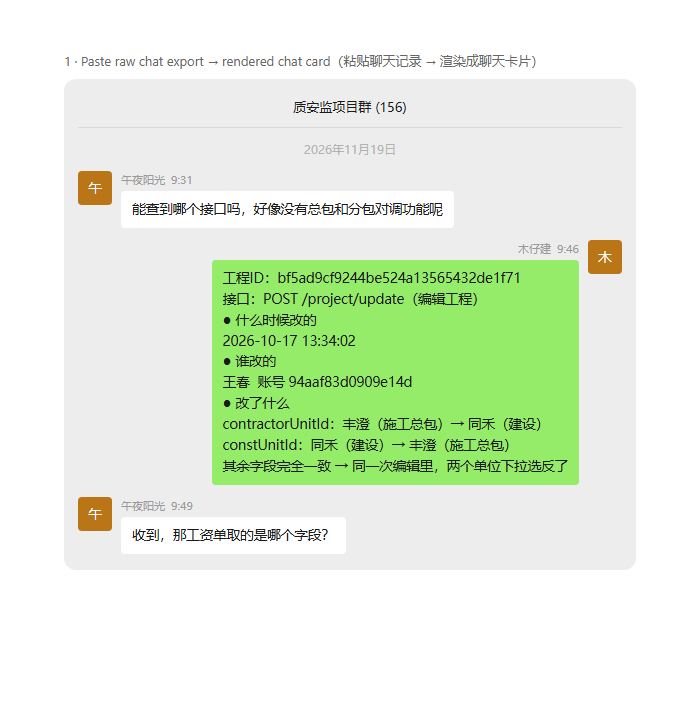
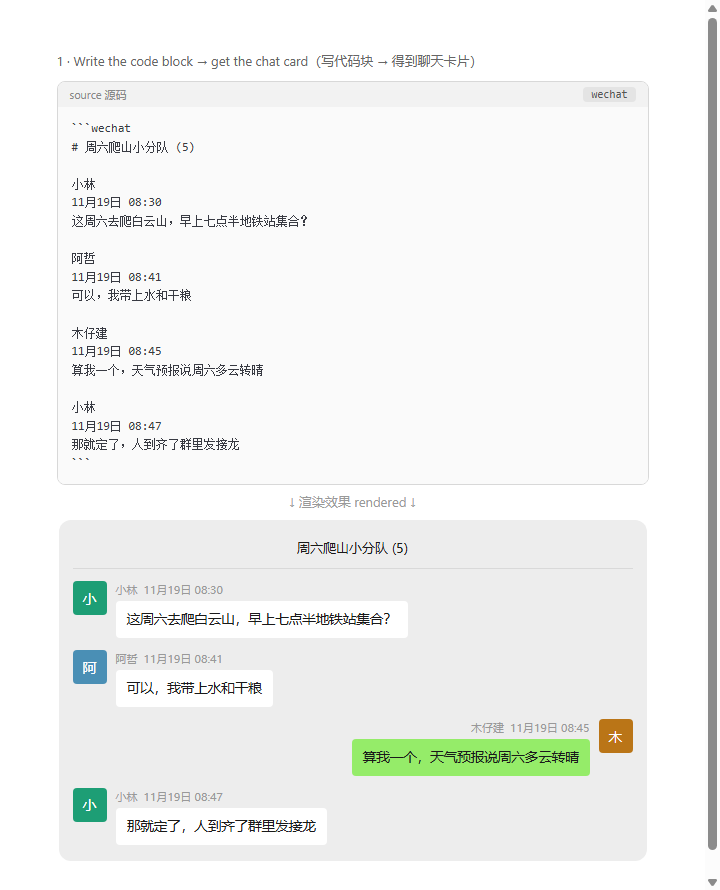
docs: replace screenshots with fictional data, show source code block above each render

diff --git a/screenshots/preview.html b/screenshots/preview.html
@@ -18,37 +18,66 @@
   .shot {
     background: #FFFFFF;
     padding: 20px 24px;
-    width: 620px;
+    width: 640px;
     box-sizing: border-box;
   }
   .shot-label {
     font-size: 13px;
     color: #666;
-    margin-bottom: 10px;
+    margin-bottom: 12px;
   }
-  /* 让插件卡片在截图里更醒目一点 */
-  .shot .wcr-chat { max-width: 560px; }
+  /* 模拟 Obsidian 代码块外观 */
+  .cb {
+    border: 0.5px solid #D8D8D8;
+    border-radius: 8px;
+    overflow: hidden;
+    margin-bottom: 8px;
+  }
+  .cb-head {
+    display: flex;
+    justify-content: space-between;
+    align-items: center;
+    background: #F2F2F2;
+    padding: 5px 12px;
+    font-size: 11px;
+    color: #888;
+  }
+  .cb-lang {
+    font-family: Consolas, Menlo, monospace;
+    background: #E4E4E4;
+    border-radius: 4px;
+    padding: 1px 8px;
+    color: #555;
+  }
+  .cb pre {
+    margin: 0;
+    padding: 12px 14px;
+    font-family: Consolas, Menlo, 'Courier New', monospace;
+    font-size: 12px;
+    line-height: 1.55;
+    color: #383A42;
+    background: #FAFAFA;
+    white-space: pre;
+  }
+  .arrow {
+    text-align: center;
+    font-size: 13px;
+    color: #999;
+    margin: 6px 0 10px;
+  }
+  .shot .wcr-chat { max-width: 560px; margin: 0 auto; }
 </style>
 </head>
 <body>
 
 <div class="shot" id="shot1">
-  <div class="shot-label">1 · Paste raw chat export → rendered chat card（粘贴聊天记录 → 渲染成聊天卡片）</div>
+  <div class="shot-label">1 · Write the code block → get the chat card（写代码块 → 得到聊天卡片）</div>
 </div>
 
 <div class="shot" id="shot2">
-  <div class="shot-label">2 · Media lines &amp; system notice（媒体消息与系统提示）</div>
+  <div class="shot-label">2 · Media, system lines &amp; right-side bubbles（媒体消息、系统提示与右侧绿气泡）</div>
 </div>
 
-<script>
-/* 直接加载插件真实解析器（main.js 的 parseChat 部分，剥掉 obsidian 依赖） */
-</script>
-<script src="main.js"></script>
-<script>
-// main.js 末尾 module.exports = WCRPlugin; 在浏览器里不会执行，直接复用其内部函数：
-// parseChat / renderChat 都定义在文件顶层，但 renderChat 依赖 document —— 浏览器可用。
-// 由于 main.js 在浏览器加载时 require('obsidian') 会报错，这里改为手动内联加载。
-</script>
 <script>
 // Polyfill：Obsidian 给 HTMLElement 扩展了 addClass/removeClass/empty，原生浏览器没有
 if (!Element.prototype.addClass) {
@@ -68,56 +97,78 @@ if (!Element.prototype.empty) {
     const res = await fetch('../main.js');
     let src = await res.text();
     src = src.replace("const obsidian = require('obsidian');", 'const obsidian = {};');
-    // 截断插件主体部分（Plugin/SettingTab 类引用 obsidian.*，浏览器不需要）
     const cut = src.indexOf('/* ---------- 插件主体');
     if (cut > 0) src = src.slice(0, cut);
     src += '\nreturn { parseChat, renderChat };';
     const { parseChat, renderChat } = new Function(src)();
 
-  const settings = { myName: '木仔建', showAvatar: true };
+    const settings = { myName: '木仔建', showAvatar: true };
 
-  const sample1 = [
-    '# 质安监项目群 (156)',
-    '',
-    '午夜阳光',
-    '2026年11月19日  9:31',
-    '能查到哪个接口吗，好像没有总包和分包对调功能呢',
-    '',
-    '木仔建',
-    '2026年11月19日  9:46',
-    '工程ID：bf5ad9cf9244be524a13565432de1f71',
-    '接口：POST /project/update（编辑工程）',
-    '● 什么时候改的',
-    '2026-10-17 13:34:02',
-    '● 谁改的',
-    '王春  账号 94aaf83d0909e14d',
-    '● 改了什么',
-    'contractorUnitId：丰澄（施工总包）→ 同禾（建设）',
-    'constUnitId：同禾（建设）→ 丰澄（施工总包）',
-    '其余字段完全一致 → 同一次编辑里，两个单位下拉选反了',
-    '',
-    '午夜阳光',
-    '2026年11月19日  9:49',
-    '收到，那工资单取的是哪个字段？'
-  ].join('\n');
+    /* 示例 1：基础用法（昵称行+时间行格式），全部为虚构数据 */
+    const chat1 = [
+      '# 周六爬山小分队 (5)',
+      '',
+      '小林',
+      '11月19日 08:30',
+      '这周六去爬白云山，早上七点半地铁站集合？',
+      '',
+      '阿哲',
+      '11月19日 08:41',
+      '可以，我带上水和干粮',
+      '',
+      '木仔建',
+      '11月19日 08:45',
+      '算我一个，天气预报说周六多云转晴',
+      '',
+      '小林',
+      '11月19日 08:47',
+      '那就定了，人到齐了群里发接龙'
+    ].join('\n');
+    const src1 = '```wechat\n' + chat1 + '\n```';
 
-  const sample2 = [
-    '木仔建',
-    '2026年11月19日  10:02',
-    '[图片] 微信图片_20261119094919_5443.dat',
-    '木仔建',
-    '2026年11月19日  10:03',
-    '[文件] 工资专户绑定说明.pdf',
-    '> 以上为合并转发消息'
-  ].join('\n');
+    /* 示例 2：媒体消息 + 系统提示 + 右侧气泡，全部为虚构数据 */
+    const chat2 = [
+      '阿哲',
+      '11月19日 09:12',
+      '[图片] IMG_20261119_085233.jpg',
+      '',
+      '阿哲',
+      '11月19日 09:15',
+      '[文件] 白云山登山路线图.pdf',
+      '',
+      '木仔建',
+      '11月19日 09:16',
+      '收到，周六见！',
+      '',
+      '> 以上为合并转发消息'
+    ].join('\n');
+    const src2 = '```chat\n' + chat2 + '\n```';
 
-  renderChat(document.getElementById('shot1').appendChild(document.createElement('div')), parseChat(sample1), settings);
-  renderChat(document.getElementById('shot2').appendChild(document.createElement('div')), parseChat(sample2), settings);
-  // ?only=shot1 / ?only=shot2：截图时只显示指定卡片
-  const only = new URLSearchParams(location.search).get('only');
-  if (only === 'shot1') document.getElementById('shot2').style.display = 'none';
-  if (only === 'shot2') document.getElementById('shot1').style.display = 'none';
-  window.__ready = true;
+    function addShot(elId, fenceSrc, chatSrc, lang) {
+      const shot = document.getElementById(elId);
+      const cb = document.createElement('div');
+      cb.className = 'cb';
+      cb.innerHTML = '<div class="cb-head"><span>source 源码</span><span class="cb-lang"></span></div>';
+      cb.querySelector('.cb-lang').textContent = lang;
+      const pre = document.createElement('pre');
+      pre.textContent = fenceSrc;
+      cb.appendChild(pre);
+      shot.appendChild(cb);
+      const arrow = document.createElement('div');
+      arrow.className = 'arrow';
+      arrow.textContent = '↓ 渲染效果 rendered ↓';
+      shot.appendChild(arrow);
+      renderChat(shot.appendChild(document.createElement('div')), parseChat(chatSrc), settings);
+    }
+
+    addShot('shot1', src1, chat1, 'wechat');
+    addShot('shot2', src2, chat2, 'chat');
+
+    // ?only=shot1 / ?only=shot2：截图时只显示指定卡片
+    const only = new URLSearchParams(location.search).get('only');
+    if (only === 'shot1') document.getElementById('shot2').style.display = 'none';
+    if (only === 'shot2') document.getElementById('shot1').style.display = 'none';
+    window.__ready = true;
   } catch (e) {
     document.title = 'ERR: ' + (e && e.message || e);
     const el = document.createElement('pre');

diff --git a/README.md b/README.md
@@ -4,9 +4,11 @@ Render chat logs into chat-bubble cards inside your Obsidian notes. Paste a raw 
 
 在 Obsidian 笔记里把聊天记录渲染成聊天气泡卡片。把微信、QQ 或任意「昵称 + 时间 + 消息」格式的原始聊天记录粘贴进 ` ```chat ` 代码块，阅读视图自动变成干净的聊天界面。
 
-| Paste raw export → rendered card（粘贴即渲染） | Media & system lines（媒体与系统消息） |
+| Paste raw export → rendered card（写代码块 → 得到聊天卡片） | Media, system lines & right-side bubbles（媒体消息、系统提示与右侧绿气泡） |
 |---|---|
 | ![Chat Log Render demo 1](screenshots/shot1.png) | ![Chat Log Render demo 2](screenshots/shot2.png) |
+
+Each screenshot shows the source code block above and the rendered result below (all data in the screenshots is fictional). 截图为「源码块在上、渲染结果在下」的对照图（图中数据均为虚构）。
 
 ## Features 功能
 
